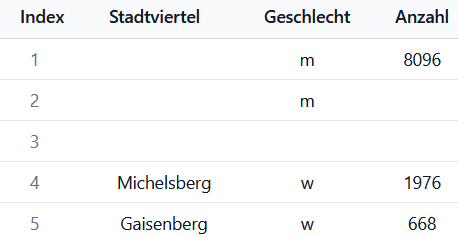
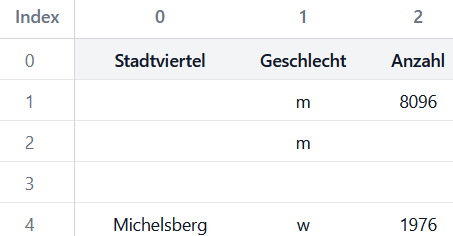
change pictures

diff --git a/src/Wiki.jsx b/src/Wiki.jsx
@@ -6,7 +6,6 @@ import InfoCard from "./components/InfoCard";
 export default function Wiki() {
 
     const introductionRef = useRef();
-    const converterRef = useRef();
     const addColNameRef = useRef();
     const removeFooterRef = useRef();
     const removeHeaderRef = useRef();
@@ -14,11 +13,12 @@ export default function Wiki() {
     const splitRowRef = useRef();
     const removeInvalidRowsRef = useRef();
     const removeTrailingColRef = useRef();
+    const removeGroupedHeaderRef = useRef();
 
     const navigation = [
         {name: 'Einleitung', href: introductionRef },
-        {name: 'Converter', href: converterRef, children: [
-           { name: 'Spalte entfernen', href:'#' },
+        {name: 'Converter', href: '#', children: [
+           { name: 'Gruppenüberschrift entfernen', href: removeGroupedHeaderRef },
            { name: 'Spalteüberschriften hinzufügen', href: addColNameRef },
            { name: 'Fußzeile entfernen', href: removeFooterRef },
            { name: 'Kopfzeile entfernen', href: removeHeaderRef },
@@ -50,73 +50,110 @@ export default function Wiki() {
                 </section>
 
                 {/* Converter */}
-                <section ref={converterRef} className="mt-10">
+                <section className="mt-10">
                     <h2 className="text font-semibold text-lg" >Converter</h2>
                     <p> 
-                        Converter werden in der Ansicht "Tabellentransformation bearbeiten" verwendent.
-                        Ein Converter entspricht einem Bearbeitungsschritt, der auf die Tabelle angwendet wird. 
+                        Converter werden in der Ansicht "Tabellentransformation bearbeiten" verwendet.
+                        Ein Converter entspricht einem Bearbeitungsschritt, der auf die Tabelle angewendet wird. 
                         Damit dieser Bearbeitungsschritt korrekt durchgeführt wird braucht jeder Converter verschiedene Informationen, beispielsweise
-                        Start- und Endreihe. Im folgenden werden alle Converter aufgelistet und deren Funktionweise genauer erklärt.
+                        Start- und Endreihe. Im folgenden werden alle Converter aufgelistet und deren Funktionsweise genauer erklärt.
 
                     </p> 
                 </section>
 
                 {/* remove grouped header */}
-                <section ref={addColNameRef} className="mt-10">
+                <section ref={removeGroupedHeaderRef} className="mt-10">
                     <h2 className="text font-semibold text-lg" > Gruppenüberschrift entfernen</h2>
                     <p> 
-                        Mithilfe dieses Converters können Verschachtelungen in der Kopfzeile und in Spalten aufgelöst werden. 
-                        Dabei müssen die Zeilen und Spalten angegeben werden, wo die Verschachtelungen auftreten. Außerdem muss vorher
-                        der Converter "Leere Zeilen auffüllen" angewendet werden,damit keine leeren Einträge in den Verschachtelungen auftreten.
-                        
-                        
+                        Mithilfe dieses Converters können Verschachtelungen in der Kopfzeile und in den Spalten aufgelöst werden. 
+                        Dabei müssen die Zeilen und Spalten angegeben werden, in der die Verschachtelungen auftreten. Dies ist notwendig, 
+                        da in der Datenbank keine Verschachtelungen auftreten dürfen und eine flache Struktur erforderlich ist
+
                     </p> 
                     <div className="p-4">
                         <InfoCard 
                             text={
+                            "- Vorher muss der Converter \"Leere Zeilen ausfüllen\" angewendet werden, damit keine leeren Einträge in den Verschachtelungen auftreten \n" +
                             "- Wenn in den Spalten keine Verschachtelungen auftreten, dann kann beim Spaltenindex 0 eingetragen werden \n" +
-                            "- Am Ende müssen die Spaltennamen mit dem Converter \"Spalten überschriften hinzufügen\" angepasst werden"
+                            "- Am Ende müssen die Spaltennamen mit dem Converter \"Spaltenüberschriften hinzufügen\" angepasst werden"
                         }/>
                     </div>
                     
-                    <p className="text-left font-semibold mt-4">Beispiel: "Undefined" zu "Anzahl" ändern</p>
+                    {/* example 1 */}
+                    <p className="text-left font-semibold mt-4">Beispiel 1: Verschachtelten Header auflösen</p>
         	        <p className="text-left">
-                        Da die letzte Spalte undefined ist, also kein Name vergeben wurde taucht dieser nicht in der Auflsitung auf.
-                        Also kann der neue Spaltenname "Anzahl" am Ende der Aufzählung hinzugefügt werden.    
+                        Vorher muss der Converter "Leere Zeilen ausfüllen" angewendet werden, damit keine leeren Einträge in den Verschachtelungen auftreten.
+                        Zuerst müssen die beiden Zeilen, in der die Verschachtelung auftritt angegeben werden, also Zeile 1 und 2.
+                        Dies muss bei Zeilennummer eingetragen werden. Da keine Verschachtelungen innerhalb der Spalten vorzufinden
+                        sind kann bei Spaltennummer 0 eingetragen werden. Die nächsten beiden Angaben beziehen sich auf die Daten. 
+                        Es muss der Beginn der tatsächlichen Daten angegeben werden, in diesem Fall ist Stadtviertel eigentlich eine eigene Spalte,
+                        also fangen die Daten bei Zeile 1 Spalte 3 an (bei dem Eintrag 35).
+                        Wie am Ende zu sehen ist, sind nun die Spaltennamen undefined, diese müssen mit dem Converter "Spaltenüberschriften hinzufügen"
+                        hinzugefügt werden.
                     </p>
 
                     <div className="flex justify-center">
-                        <img className="mt-5 object-contain" src="public/wiki/addHeaderNameParameter.png" alt="" />
+                        <img className="mt-5 object-contain" src="public/wiki/removeGroupedHeaderParameter1.png" alt="" />
                     </div>
                     
                     <div className="flex justify-around p-4 ">
                             <figure>
                                 <figcaption className="font-semibold p-4">Vorher </figcaption>
-                                <img className=" object-contain w-[35vw]" src="public/wiki/addHeaderNameStandard.png" alt="" />
+                                <img className=" object-contain w-[35vw]" src="public/wiki/removeGroupedHeaderStandard1.png" alt="" />
                                 
                             </figure>
                             
                             <figure>
                                 <figcaption className="font-semibold p-4"> Nachher</figcaption>
-                                <img className="object-contain w-[35vw]" src="public/wiki/addHeaderNameNew.png" alt="" />
+                                <img className="object-contain w-[35vw]" src="public/wiki/removeGroupedHeaderNew1.png" alt="" />
+                                
+                            </figure>
+                            
+                    </div>
+
+                    {/* example 2 */}
+                    <p className="text-left font-semibold mt-4">Beispiel 2: Verschachtelten Header und Spalten auflösen</p>
+        	        <p className="text-left">
+                        Vorher muss der Converter "Leere Zeilen ausfüllen" mit Wert 0 und der Converter
+                        "Leere Spalten ausfüllen" mit dem Wert 0,1 angewendet werden.
+                        Bei diesem Beispiel sind nun auch Verschachtelungen innerhalb der Spalten. Dies erkennt
+                        man daran, das innerhalb einer Spalte verschiedenen Überschriften stehen, z.B. in Spalte 0
+                        sind die Überschriften: Geschlecht, 13 Altersgruppen und Sozialräume. 
+                        Eigentlich sollte es nur eine Überschrift pro Spalte geben. Deswegen muss nun bei Spaltennummern die Spalten
+                        0, 1 und 2 angegeben werden. Die verschachtelten Zeilen sind 0 und 1, diese werden bei Zeilennummern eingetragen und
+                        die tatsächlichen Daten beginnen bei Zeile 3 und Spalte 3. Dies wird bei Startzeile und Startspalte eingetragen.
+                        Zum Schluss muss wieder mit dem Converter "Spaltenüberschriften hinzufügen" die Spaltennamen ergänzt werden.
+                        
+                    </p>
+
+                    <div className="flex justify-center">
+                        <img className="mt-5 object-contain" src="public/wiki/removeGroupedHeaderParameter2.png" alt="" />
+                    </div>
+                    
+                    <div className="flex justify-around p-4 ">
+                            <figure>
+                                <figcaption className="font-semibold p-4">Vorher </figcaption>
+                                <img className=" object-contain w-[35vw]" src="public/wiki/removeGroupedHeaderStandard2.png" alt="" />
+                                
+                            </figure>
+                            
+                            <figure>
+                                <figcaption className="font-semibold p-4"> Nachher</figcaption>
+                                <img className="object-contain w-[35vw]" src="public/wiki/removeGroupedHeaderNew2.png" alt="" />
                                 
                             </figure>
                             
                     </div>
                     
-                   
                 </section>
-
-                    
-                
 
                 {/* add column name */}
                 <section ref={addColNameRef} className="mt-10">
                     <h2 className="text font-semibold text-lg" > Spaltenüberschriften hinzufügen</h2>
                     <p> 
                         Mithilfe dieses Converters können die Spaltennamen verändert werden. 
-                        Die Namen werden durch ein Komma getrennt und der erste Name wird auf die erste Spalte angwendet,
-                         der zweite Name auf die zweite Spalte undsoweiter.
+                        Die Namen werden durch ein Komma getrennt und der erste Name wird auf die erste Spalte angewendet,
+                         der zweite Name auf die zweite Spalte und so weiter.
                         
                     </p> 
                     <div className="p-4">
@@ -128,7 +165,7 @@ export default function Wiki() {
                     
                     <p className="text-left font-semibold mt-4">Beispiel: "Undefined" zu "Anzahl" ändern</p>
         	        <p className="text-left">
-                        Da die letzte Spalte undefined ist, also kein Name vergeben wurde taucht dieser nicht in der Auflistung auf.
+                        Da die letzte Spalte undefined ist, also kein Name vergeben wurde, taucht dieser nicht in der Auflistung auf.
                         Also kann der neue Spaltenname "Anzahl" am Ende der Aufzählung hinzugefügt werden.    
                     </p>
 
@@ -159,7 +196,7 @@ export default function Wiki() {
                     <h2 className="text font-semibold text-lg" >Fußzeile entfernen</h2>
                     <p> 
                         Mit diesem Converter wird der Abschnitt unter den eigentlichen Daten entfernt. 
-                        Dies dient dazu die Tabelle vom Text mit Metainformationen zu trennen und korrekt anzeigen zu können. 
+                        Dies dient dazu, die Tabelle vom Text mit Metainformationen zu trennen und korrekt anzeigen zu können. 
                         Für die korrekte Verarbeitung der Daten wird nur die Tabelle benötigt. Andernfalls werden die Textzeilen als Daten angesehen
                         und in die Tabelle geschrieben.
                         
@@ -208,7 +245,7 @@ export default function Wiki() {
                 <section ref={replaceEntriesRef} className="mt-10">
                     <h2 className="text font-semibold text-lg" >Einträge ersetzen </h2>
                     <p> 
-                        Dieser Converter kann einzelne Einträge in der Tabelle ersetzen, um beispilsweise fehlerhafte Einträge zu korrigieren.
+                        Dieser Converter kann einzelne Einträge in der Tabelle ersetzen, um beispielsweise fehlerhafte Einträge zu korrigieren.
                         Dabei wird die gesamte Tabelle nach dem Suchbegriff durchsucht und anschließend durch den "Ersetzen durch" - Wert ersetzt.
                     </p> 
 
@@ -259,7 +296,7 @@ export default function Wiki() {
                     <p className="text-left font-semibold mt-4">Beispiel:</p>
                      <p className="text-left">
                         In der Spalte "Fallantragsbezeichnung" befinden sich in einer Zelle mehrerer Einträge, 
-                        diese sollen in seperate Zeilen angegeben werden. 
+                        diese sollen in separate Zeilen angegeben werden. 
                         Dafür muss der Index der entsprechenden Spalte angegeben werden. 
                     </p>
         	        
@@ -290,16 +327,14 @@ export default function Wiki() {
                 <section ref={removeInvalidRowsRef} className="mt-10">
                     <h2 className="text font-semibold text-lg" >Ungültige Zeilen entfernen </h2>
                     <p> 
-                        Dieser Converter entfernt ungültige Zeilen. Im Standardfall wird eine Zeile als ungültig angesehen, sobald sich minedstens
+                        Dieser Converter entfernt ungültige Zeilen. Im Standardfall wird eine Zeile als ungültig angesehen, sobald sich mindestens
                         eine leere Zelle in dieser Zeile befindet. Dies kann dazu verwendet werden, 
-                        um nur vollständige Zeilen für die Visualisierung zu verwenden. 
-                        Threshold gibt an wie viele Einträge in einer Zeile gefüllt sein müssen, damit sie nicht gelöscht wird.
-                        
+                        nur vollständige Zeilen für die Visualisierung zu verwenden. 
                     </p> 
 
                     <div className="p-4">
                         <InfoCard
-                            text={"- Der Threshold gibt an wie viele Einträge in einer Zeile korrekt gefüllt sein müssen, damit sie nicht gelöscht wird. \n "+
+                            text={"- Der Threshold gibt an, wie viele Einträge in einer Zeile korrekt gefüllt sein müssen, damit sie nicht gelöscht werden. \n "+
                                 " - Komplett leere Zeilen werden immer gelöscht"}
                         />
                     </div>
@@ -309,7 +344,7 @@ export default function Wiki() {
                     <p className="text-left font-semibold mt-4">Beispiel:</p>
                      <p className="text-left">
                         Wird der Threshold auf 1 gesetzt, so werden alle Zeilen mit mehr als einer korrekt befüllten Zelle behalten.
-                        Dadurch wird die Zeile mit dem Eintrag "m" gelöscht , weil die Anzahl der korrekten Einträge
+                        Dadurch wird Zeile 2 gelöscht , weil die Anzahl der korrekten Einträge
                         kleiner gleich dem Threshold ist. Die komplett leere Zeile wird immer gelöscht.
                     </p>
         	        
